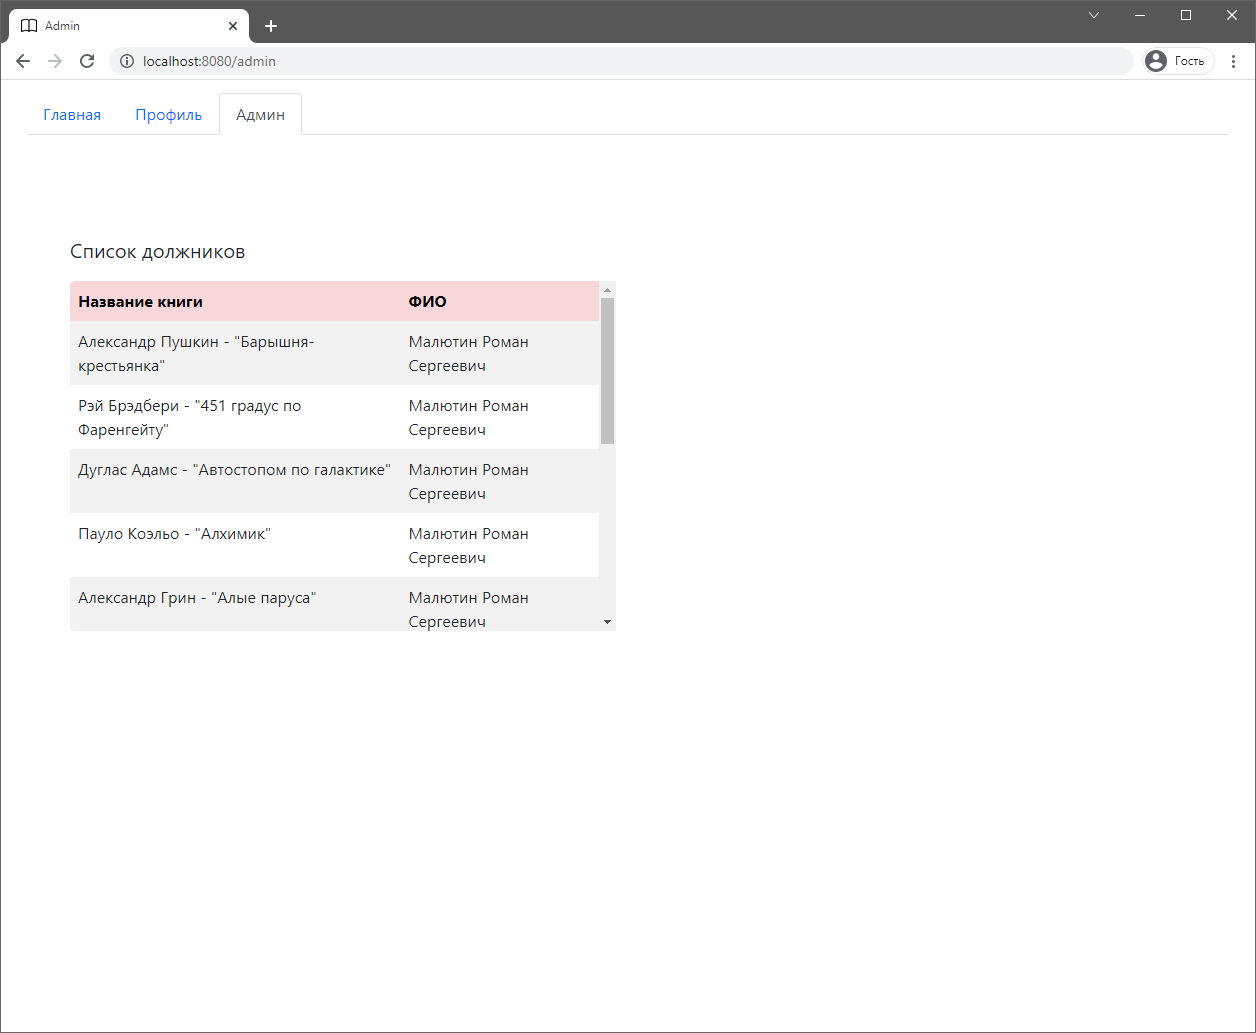
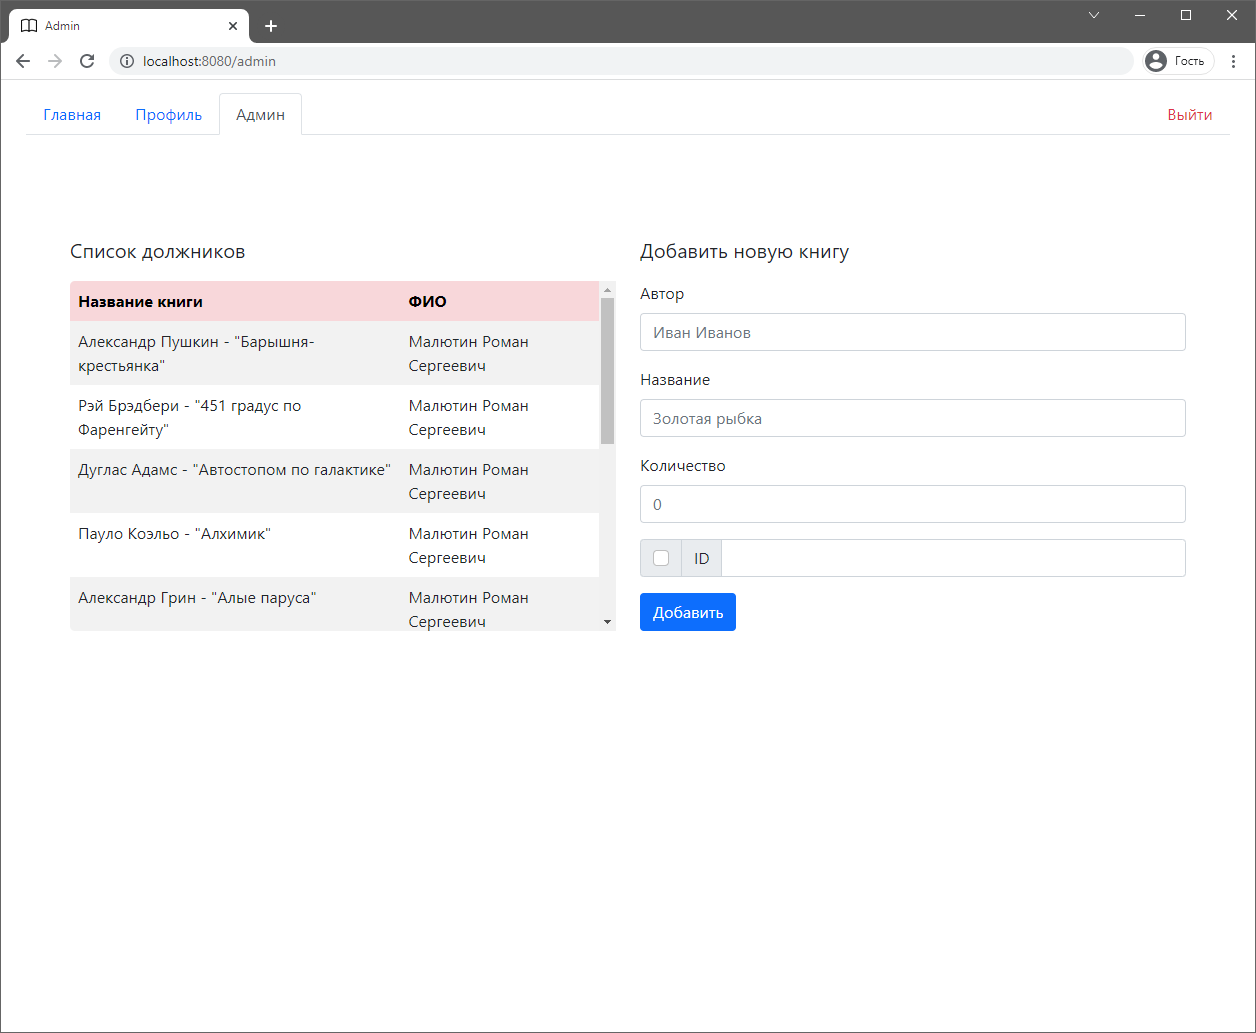
Admin tab frontend changes
- Added second part of container
- Added deauth button

diff --git a/private/admin.html b/private/admin.html
@@ -28,7 +28,11 @@
       <li class="nav-item">
         <a class="nav-link active disabled" aria-current="page" href="/admin">Админ</a>
       </li>
+      <li class="nav-item d-flex ms-auto">
+        <a class="nav-link text-danger" id="unlogButton">Выйти</a>
+      </li>
     </ul>
+    
     <div class="container">
       <div class="row">
         <div class="col" id="takenBooksCol">
@@ -47,7 +51,27 @@
           </div>
         </div>
         <div class="col" id="addNewBookCol">
-          
+          <p class="fs-5">Добавить новую книгу</p>
+          <div class="mb-3">
+            <label for="bookAuthor" class="form-label">Автор</label>
+            <input type="text" class="form-control" id="bookAuthor" placeholder="Иван Иванов">
+          </div>
+          <div class="mb-3">
+            <label for="bookName" class="form-label">Название</label>
+            <input type="text" class="form-control" id="bookName" placeholder="Золотая рыбка">
+          </div>
+          <div class="mb-3">
+            <label for="bookQ" class="form-label">Количество</label>
+            <input type="number" class="form-control" id="bookQ" placeholder="0">
+          </div>
+          <div class="input-group mb-3">
+            <div class="input-group-text">
+              <input class="form-check-input mt-0" type="checkbox" value="">
+            </div>
+            <span class="input-group-text">ID</span>
+            <input type="text" class="form-control" id="bookId">
+          </div>
+          <button type="button" class="btn btn-primary" id="addBookButton">Добавить</button>
         </div>
       </div>
     </div>
